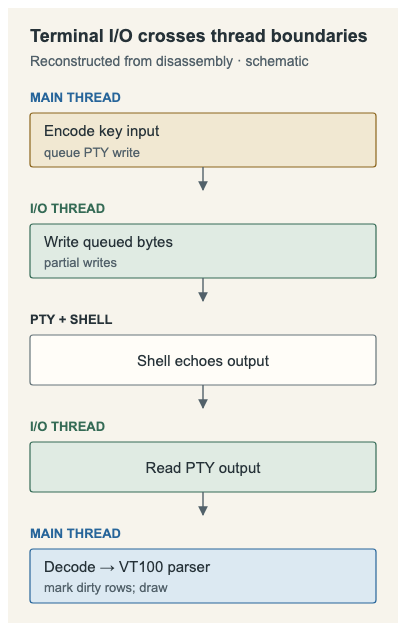
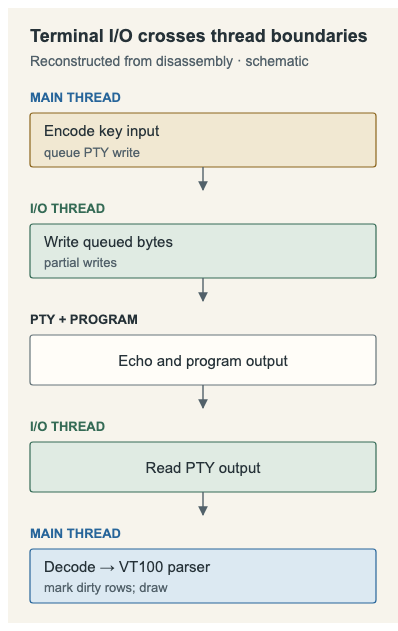
fix

Changed region(s): [[0.3015, 0.542, 0.7236, 0.6022], [0.1809, 0.4818, 0.3618, 0.5119]]

diff --git a/blog/tabdance-terminal-feel/index.html b/blog/tabdance-terminal-feel/index.html
@@ -53,7 +53,7 @@
         <figure class="article-figure">
           <picture>
             <source media="(max-width: 600px)" srcset="/images/blog/tabdance-terminal-feel/clear-selection-mobile.svg" width="390" height="684" />
-            <img src="/images/blog/tabdance-terminal-feel/clear-selection.svg" width="880" height="420" alt="Schematic selection comparison. One buffer includes an old build log and error before cat file.txt. The desired buffer selects only alpha, beta, gamma and two surrounding rows on either side." loading="lazy" decoding="async" />
+            <img src="/images/blog/tabdance-terminal-feel/clear-selection.svg" width="880" height="415" alt="Schematic selection comparison. One buffer includes an old build log and error before cat file.txt. The desired buffer selects only alpha, beta, gamma and two surrounding rows on either side." loading="lazy" decoding="async" />
           </picture>
           <figcaption>The target behavior for TabDance. The three-line file and surrounding rows are a schematic fixture; this is not a measured comparison between released terminals. Prompt and wrapping settings can change the surrounding text.</figcaption>
         </figure>
@@ -81,7 +81,7 @@ dyld_info -arch arm64e -disassemble term.bin.exe.mac</code></pre>
         <figure class="article-figure">
           <picture>
             <source media="(max-width: 600px)" srcset="/images/blog/tabdance-terminal-feel/selection-snapshot-mobile.svg" width="390" height="675" />
-            <img src="/images/blog/tabdance-terminal-feel/selection-snapshot.svg" width="880" height="370" alt="Five selected cells spell hello. An erase-line sequence blanks the live cells, while a separate saved selection still contains hello and supplies that string to the clipboard." loading="lazy" decoding="async" />
+            <img src="/images/blog/tabdance-terminal-feel/selection-snapshot.svg" width="880" height="365" alt="Five selected cells spell hello. An erase-line sequence blanks the live cells, while a separate saved selection still contains hello and supplies that string to the clipboard." loading="lazy" decoding="async" />
           </picture>
           <figcaption>A schematic of the Rio fix. The copied string has a lifetime independent of the cells the application is redrawing.</figcaption>
         </figure>
@@ -107,7 +107,7 @@ dyld_info -arch arm64e -disassemble term.bin.exe.mac</code></pre>
         <p>A high frame rate or fast dump of a large file wouldn’t tell me the whole time from a key event to the character I see. Queued writes, shell processing, delivery to the main thread, and the next draw all sit on that route. I need a controlled comparison with the same shell, prompt, window size, font, and workload before claiming that TabDance is faster—or that a particular Apple design choice explains my preference.</p>
 
         <h2 id="first-build">Where TabDance is today</h2>
-        <p>The <a href="https://github.com/andrewarrow/TabDance/tree/045d83cdefd6dfbefcdcd416eaf16be355894290">first public snapshot</a> contains the inspection artifacts and a small native prototype. It uses Swift, AppKit, and <a href="https://github.com/migueldeicaza/SwiftTerm/tree/464df5207fc2432e16c9a23abe538187196daf5f">SwiftTerm 1.19.0</a> for terminal emulation and rendering. It launches a real login shell, supports selection and copy/paste, resizes the PTY, and opens multiple windows. The app bundle is still called <code>TerminalLab.app</code>.</p>
+        <p>The <a href="https://github.com/andrewarrow/TabDance/tree/045d83cdefd6dfbefcdcd416eaf16be355894290">October 10 snapshot</a> contains the inspection artifacts and a small native prototype. It uses Swift, AppKit, and <a href="https://github.com/migueldeicaza/SwiftTerm/tree/464df5207fc2432e16c9a23abe538187196daf5f">SwiftTerm 1.19.0</a> for terminal emulation and rendering. It launches a real login shell, supports selection and copy/paste, resizes the PTY, and opens multiple windows. The app bundle is still called <code>TerminalLab.app</code>.</p>
         <p>Two local tests passed: one exercises a real PTY’s input, output, resize, and child cleanup; the other checks parser behavior for cursor positioning, color, and the alternate screen. The <a href="https://github.com/andrewarrow/TabDance/blob/045d83cdefd6dfbefcdcd416eaf16be355894290/prototype/README.md">build instructions and scope</a> are in the repository. Those checks establish a working base. Tabs, workspaces, and matching the clear–print–select behavior are still ahead of this prototype.</p>
         <p>I’m starting the next comparison with a deliberately boring file:</p>
         <pre class="docs-code" tabindex="0" role="region" aria-label="Create a three-line file for comparing clear and selection behavior"><code>printf 'alpha\nbeta\ngamma\n' &gt; /tmp/tabdance-selection.txt

diff --git a/public/images/blog/tabdance-terminal-feel/generate.py b/public/images/blog/tabdance-terminal-feel/generate.py
@@ -111,7 +111,7 @@ def snapshot_desktop():
     # Stored snapshot is independent from live cells, then copied.
     p.append(line(83,184,83,220,BLUE,1.5,marker='blue-arrow'))
     p.append(rect(30,232,390,72,BLUE_PALE,BLUE,1.2,3))
-    p.append(t(46,258,'Selection snapshot',14,BLUE,600))
+    p.append(t(46,258,'Saved when selected',14,BLUE,600))
     p.append(t(46,286,'hello',22,BLUE,500,MONO))
     p.append(line(432,267,557,267,BLUE,1.6,marker='blue-arrow'))
     p.append(rect(572,232,278,72,'#fffdf8','#9da9aa',1,3))
@@ -132,9 +132,11 @@ p=[t(22,35,'Cells change; selection stays',21,INK,600),
    line(134,294,134,320,MUTED,1.4,marker='arrow'),
    t(22,346,'3 · Live cells now blank',15,INK,600),
    cells(22,359,['']*5,False,True),
-   line(134,407,134,436,BLUE,1.5,marker='blue-arrow'),
+   line(253,126,337,126,BLUE,1.5),
+   line(337,126,337,438,BLUE,1.5),
+   line(337,438,337,447,BLUE,1.5,marker='blue-arrow'),
    rect(22,450,346,89,BLUE_PALE,BLUE,1.2,3),
-   t(38,476,'Selection snapshot',14,BLUE,600),
+   t(38,476,'Saved when selected',14,BLUE,600),
    t(38,514,'hello',22,BLUE,500,MONO),
    line(195,539,195,573,BLUE,1.5,marker='blue-arrow'),
    rect(22,586,346,66,'#fffdf8','#9da9aa',1,3),
@@ -147,14 +149,14 @@ def topology_desktop():
     p=[t(30,35,'Terminal input and output cross threads',23,INK,600),
        t(30,59,'Reconstructed from disassembly · schematic sequence',14,MUTED)]
     lane_x=[185,452,701]; lane_w=[220,210,156]
-    labels=['Main thread','I/O thread','PTY + shell']
+    labels=['Main thread','I/O thread','PTY + program']
     for x,w,label in zip(lane_x,lane_w,labels):
         p.append(t(x+w/2,94,label,16,INK,600,anchor='middle'))
         p.append(line(x+w/2,111,x+w/2,530,'#c4cbca',1,'4 5'))
     # Keyboard bytes are queued on main, then written by the I/O thread.
     p += [rect(185,119,220,52,GOLD_PALE,GOLD,1.2,3),t(295,141,'Encode key input',15,INK,500,anchor='middle'),t(295,161,'queue PTY write',13,MUTED,400,anchor='middle')]
     p.append(rect(452,194,210,52,GREEN_PALE,GREEN,1.2,3));p.append(t(557,216,'Write queued bytes',15,INK,500,anchor='middle'));p.append(t(557,236,'partial writes',13,MUTED,400,anchor='middle'))
-    p.append(rect(701,269,156,54,'#fffdf8','#66757a',1.2,3));p.append(t(779,292,'Shell',16,INK,600,anchor='middle'));p.append(t(779,313,'echo + output',13,MUTED,400,anchor='middle'))
+    p.append(rect(701,269,156,54,'#fffdf8','#66757a',1.2,3));p.append(t(779,292,'PTY + program',14,INK,600,anchor='middle'));p.append(t(779,313,'echo + output',13,MUTED,400,anchor='middle'))
     p.append(rect(452,344,210,52,GREEN_PALE,GREEN,1.2,3));p.append(t(557,366,'Read PTY output',15,INK,500,anchor='middle'));p.append(t(557,386,'background I/O',13,MUTED,400,anchor='middle'))
     p.append(rect(185,419,220,52,BLUE_PALE,BLUE,1.2,3));p.append(t(295,441,'Decode bytes',15,INK,500,anchor='middle'));p.append(t(295,461,'VT100 parser',13,MUTED,400,anchor='middle'))
     p.append(rect(185,494,220,52,BLUE_PALE,BLUE,1.2,3));p.append(t(295,516,'Mark rows dirty',15,INK,500,anchor='middle'));p.append(t(295,536,'draw updated rows',13,MUTED,400,anchor='middle'))
@@ -175,8 +177,8 @@ p=[t(22,34,'Terminal I/O crosses thread boundaries',18,INK,600),
    t(22,205,'I/O THREAD',13,GREEN,600),
    rect(22,216,346,54,GREEN_PALE,GREEN,1.2,3),t(36,239,'Write queued bytes',15,INK,500),t(36,259,'partial writes',13,MUTED),
    line(195,270,195,293,MUTED,1.4,marker='arrow'),
-   t(22,316,'PTY + SHELL',13,INK,600),
-   rect(22,327,346,50,'#fffdf8','#66757a',1.2,3),t(195,358,'Shell echoes output',15,INK,500,anchor='middle'),
+   t(22,316,'PTY + PROGRAM',13,INK,600),
+   rect(22,327,346,50,'#fffdf8','#66757a',1.2,3),t(195,358,'Echo and program output',15,INK,500,anchor='middle'),
    line(195,377,195,400,MUTED,1.4,marker='arrow'),
    t(22,423,'I/O THREAD',13,GREEN,600),
    rect(22,434,346,50,GREEN_PALE,GREEN,1.2,3),t(195,465,'Read PTY output',15,INK,500,anchor='middle'),
